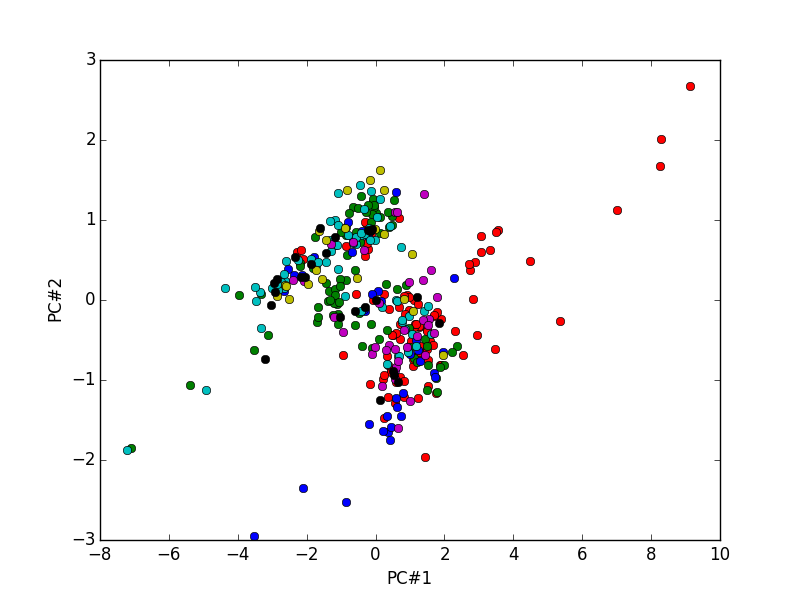
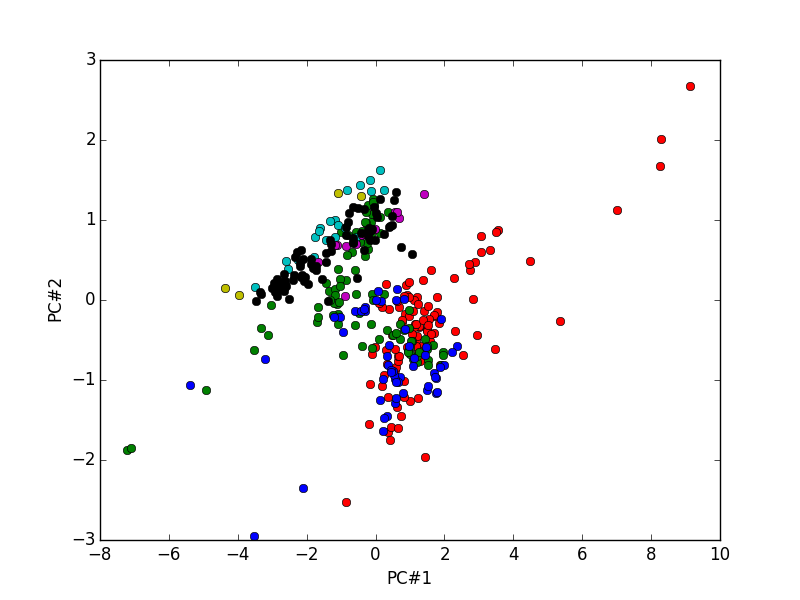
Biplots on predicted errors. SVM on multi-point prediction.

diff --git a/ensemble_forecast.py b/ensemble_forecast.py
@@ -8,15 +8,19 @@ T = 48
 
 # preparing measurements data
 m = np.loadtxt('data/2011/2011080100_measurements_GI_2623.txt')
+m_s1 = np.loadtxt('data/2011/2011080100_measurements_S1_2623.txt')
 MHT = 70  # maximum history length
 mh = np.zeros((N, MHT))
+mh_s1 = np.zeros((N, MHT))
 for i in range(N):
     for j in range(MHT):
         tt = i*6-j
         if tt < 0:
             mh[i, j] = np.nan
+            mh_s1[i, j] = np.nan
         else:
             mh[i, j] = m[tt]
+            mh_s1[i, j] = m_s1[tt]
 
 # ensembles loading
 with open('data/2011/2011080100_ens_dist_names.txt') as t_file:
@@ -55,12 +59,17 @@ for i in range(10):
     predicted_err = []
     for ens_i in range(len(ens_names)):
         ens_idx_selection = (ens_dist_index[:, 0].flatten() == ens_i) | (ens_dist_index[:, 1].flatten() == ens_i)
-        train_arg = np.hstack((mh[train_index, 0:history_view_window], ens_dist_dtw[train_index][:, ens_idx_selection]))
-        test_arg = np.hstack((mh[test_index, 0:history_view_window], ens_dist_dtw[test_index][:, ens_idx_selection]))
+        train_arg = np.hstack((mh[train_index, 0:history_view_window],
+                               mh_s1[train_index, 0:history_view_window],
+                               ens_dist_dtw[train_index][:, ens_idx_selection]))
+        test_arg = np.hstack((mh[test_index, 0:history_view_window],
+                              mh_s1[test_index, 0:history_view_window],
+                              ens_dist_dtw[test_index][:, ens_idx_selection]))
         # train_arg = mh[train_index, 0:history_view_window]
         # test_arg = mh[test_index, 0:history_view_window]
         train_val = ens_err[ens_i][train_index, 1]
-        regr = svm.SVR(kernel='rbf', C=1e6, gamma=0.3)
+        # regr = svm.SVR(kernel='rbf', gamma=0.3)
+        regr = svm.SVR()
         regr.fit(train_arg, train_val)
         predicted_err += [regr.predict(test_arg), ]
     predicted_err = np.array(predicted_err).transpose()

diff --git a/ensemble_kr.py b/ensemble_kr.py
@@ -14,9 +14,22 @@ for i in range(n_start, n_stop + 1):
     predicted_errors = np.vstack((predicted_errors, e[1:, 1].flatten()))
 
 original_best_class = np.argmin(original_errors, axis=1)
-predicted_best_class = np.argmin(original_errors, axis=1)
+predicted_best_class = np.argmin(predicted_errors, axis=1)
 predicted_selected_error = [original_errors[i, predicted_best_class[i]] for i in range(len(predicted_best_class))]
 print(np.mean(original_errors[:, -1] - predicted_selected_error))
+
+colors = ['r', 'g', 'b', 'c', 'm', 'y', 'k']
+
+# original-predicted DTW biplot
+plt.xlabel('Original DTW error, cm')
+plt.ylabel('Predicted DTW error, cm')
+plt.xlim((-0.5, 9.5))
+plt.ylim((-0.5, 9.5))
+plt.plot([-1, 10], [-1, 10], 'k')
+for i in range(7):
+    plt.plot(original_errors[:, i], predicted_errors[:, i], 'o'+colors[i])
+plt.savefig('pics\\2011\\predicted-vs-original-errors.png')
+plt.close()
 
 # error on error estimation
 print("ESTIMATION MEAN:", np.mean(original_errors - predicted_errors, axis=0))
@@ -25,10 +38,11 @@ print("ESTIMATION STD:", np.std(original_errors - predicted_errors, axis=0))
 # pca on distance vector
 pca = PCA(n_components=2)
 pca_res = pca.fit_transform(predicted_errors)
-colors = ['r', 'g', 'b', 'c', 'm', 'y', 'k']
+plt.figure(10)
 plt.xlabel('PC#1')
 plt.ylabel('PC#2')
 for i in range(7):
     plt.plot(pca_res[predicted_best_class == i, 0], pca_res[predicted_best_class == i, 1], 'o'+colors[i])
 plt.savefig('pics\\2011\\predicted-errors-pca.png')
 plt.close()
+
